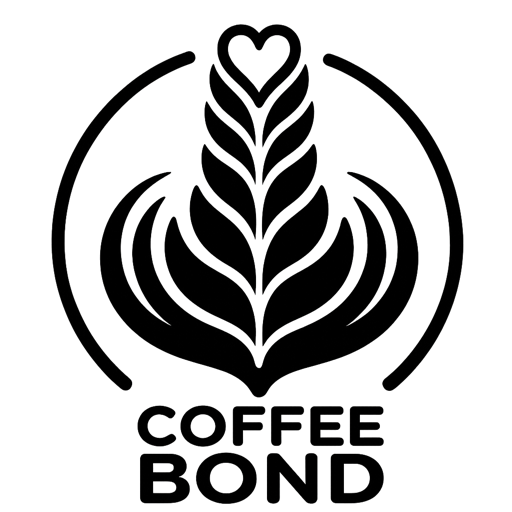
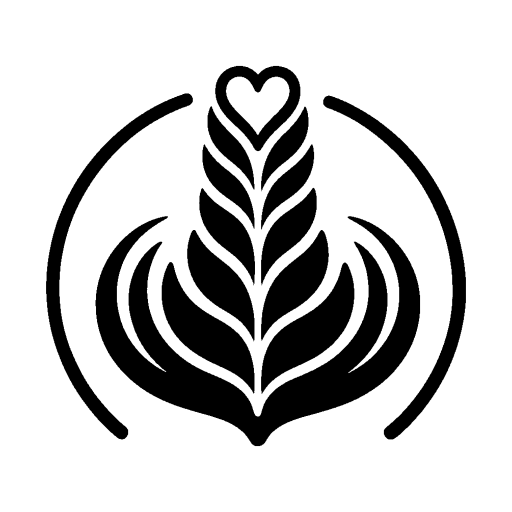
feat(customer): apply official Coffee Bond branding

Changed region(s): [[0.0625, 0.0312, 0.9375, 1.0], [0.3125, 0.3125, 0.3438, 0.3438]]

diff --git a/frontend/components/customer/CustomerHeader.tsx b/frontend/components/customer/CustomerHeader.tsx
@@ -3,7 +3,12 @@ import { Loader2, UserRound, Wheat } from 'lucide-react';
 import { Link } from 'react-router-dom';
 import { CustomerProfile } from '../../lib/customerAuth';
 import CustomerAccountSheet from './CustomerAccountSheet';
-import { CUSTOMER_ACCOUNT_PATH, CUSTOMER_HOME_PATH, CUSTOMER_MY_ORDERS_PATH } from '../../lib/customerRoutes';
+import {
+  CUSTOMER_ACCOUNT_PATH,
+  CUSTOMER_HOME_PATH,
+  CUSTOMER_MY_ORDERS_PATH,
+  IS_CUSTOMER_ORIGIN_BUILD,
+} from '../../lib/customerRoutes';
 
 type Props = {
   title: string;
@@ -91,8 +96,21 @@ export default function CustomerHeader({
       <header className={`${sticky ? 'sticky top-0 z-30' : ''} cb-customer-header`}>
         <div className="mx-auto flex h-[58px] w-full min-w-0 items-center justify-between gap-2 px-4 lg:max-w-6xl lg:px-6">
           <Link to={CUSTOMER_HOME_PATH} className="cb-customer-brand flex min-h-11 min-w-0 items-center gap-2 focus:outline-none">
-            <span className="cb-customer-brand-mark" aria-hidden="true">
-              <Wheat size={29} strokeWidth={1.6} />
+            <span
+              className={`cb-customer-brand-mark${IS_CUSTOMER_ORIGIN_BUILD ? ' is-official' : ''}`}
+              aria-hidden="true"
+            >
+              {IS_CUSTOMER_ORIGIN_BUILD ? (
+                <img
+                  src="/pwa/coffee-bond-mark.svg"
+                  alt=""
+                  width="38"
+                  height="38"
+                  className="cb-customer-official-mark"
+                />
+              ) : (
+                <Wheat size={29} strokeWidth={1.6} />
+              )}
             </span>
             <span className="cb-customer-wordmark whitespace-nowrap">
               Coffee <em>Bond</em>

diff --git a/frontend/components/customer/CustomerProductImage.tsx b/frontend/components/customer/CustomerProductImage.tsx
@@ -1,4 +1,5 @@
 import { ComponentType, useCallback, useState } from 'react';
+import { IS_CUSTOMER_ORIGIN_BUILD } from '../../lib/customerRoutes';
 
 type Props = {
   src: string | null;
@@ -68,7 +69,18 @@ export default function CustomerProductImage({
       {!loaded && showImage && <div className="absolute inset-0 animate-pulse bg-[#e8ddd2] motion-reduce:animate-none" aria-hidden="true" />}
       {(!showImage || failed) && (
         <div className="absolute inset-0 flex items-center justify-center bg-[#f1e8df]" role="img" aria-label={`${alt} image unavailable`}>
-          <Icon size={25} className={iconClassName} />
+          {IS_CUSTOMER_ORIGIN_BUILD ? (
+            <img
+              src="/pwa/coffee-bond-mark.svg"
+              alt=""
+              width="64"
+              height="64"
+              aria-hidden="true"
+              className="cb-customer-product-fallback-mark"
+            />
+          ) : (
+            <Icon size={25} className={iconClassName} />
+          )}
         </div>
       )}
     </div>

diff --git a/frontend/customer.css b/frontend/customer.css
@@ -365,6 +365,14 @@
    The picture carries the state; the text keeps full contrast. */
 .cb-customer-unavailable .cb-customer-product-media { opacity: 0.45; }
 
+.cb-customer-product-fallback-mark {
+  display: block;
+  width: min(44%, 64px);
+  height: min(44%, 64px);
+  object-fit: contain;
+  opacity: 0.42;
+}
+
 /* Reserves space so the fixed bottom navigation never covers page content.
    The bar is lg:hidden, so the reservation is dropped at the same breakpoint. */
 .cb-customer-page-bottom { padding-bottom: var(--cb-content-bottom); }
@@ -2053,6 +2061,17 @@
   place-items: center;
   color: #b47a21;
   transform: rotate(-7deg);
+}
+.cb-customer-brand-mark.is-official {
+  width: 38px;
+  height: 38px;
+  transform: none;
+}
+.cb-customer-official-mark {
+  display: block;
+  width: 38px;
+  height: 38px;
+  object-fit: contain;
 }
 .cb-customer-wordmark {
   font-family: Georgia, 'Times New Roman', ui-serif, serif;

diff --git a/public-customer/sw.js b/public-customer/sw.js
@@ -16,7 +16,7 @@
  * different origins so their caches can never collide.
  */
 const CACHE_PREFIX = 'coffee-bond-order-static';
-const CACHE_VERSION = 'v1';
+const CACHE_VERSION = 'v2';
 const STATIC_CACHE = `${CACHE_PREFIX}-${CACHE_VERSION}`;
 const APP_SHELL = ['/', '/index.html', '/offline.html', '/manifest.webmanifest', '/pwa/icon-192.png', '/pwa/icon-512.png', '/pwa/icon-maskable-512.png', '/pwa/apple-touch-icon.png'];
 const STATIC_EXTENSION = /\.(?:css|js|mjs|png|jpg|jpeg|webp|svg|ico|woff|woff2)$/i;
